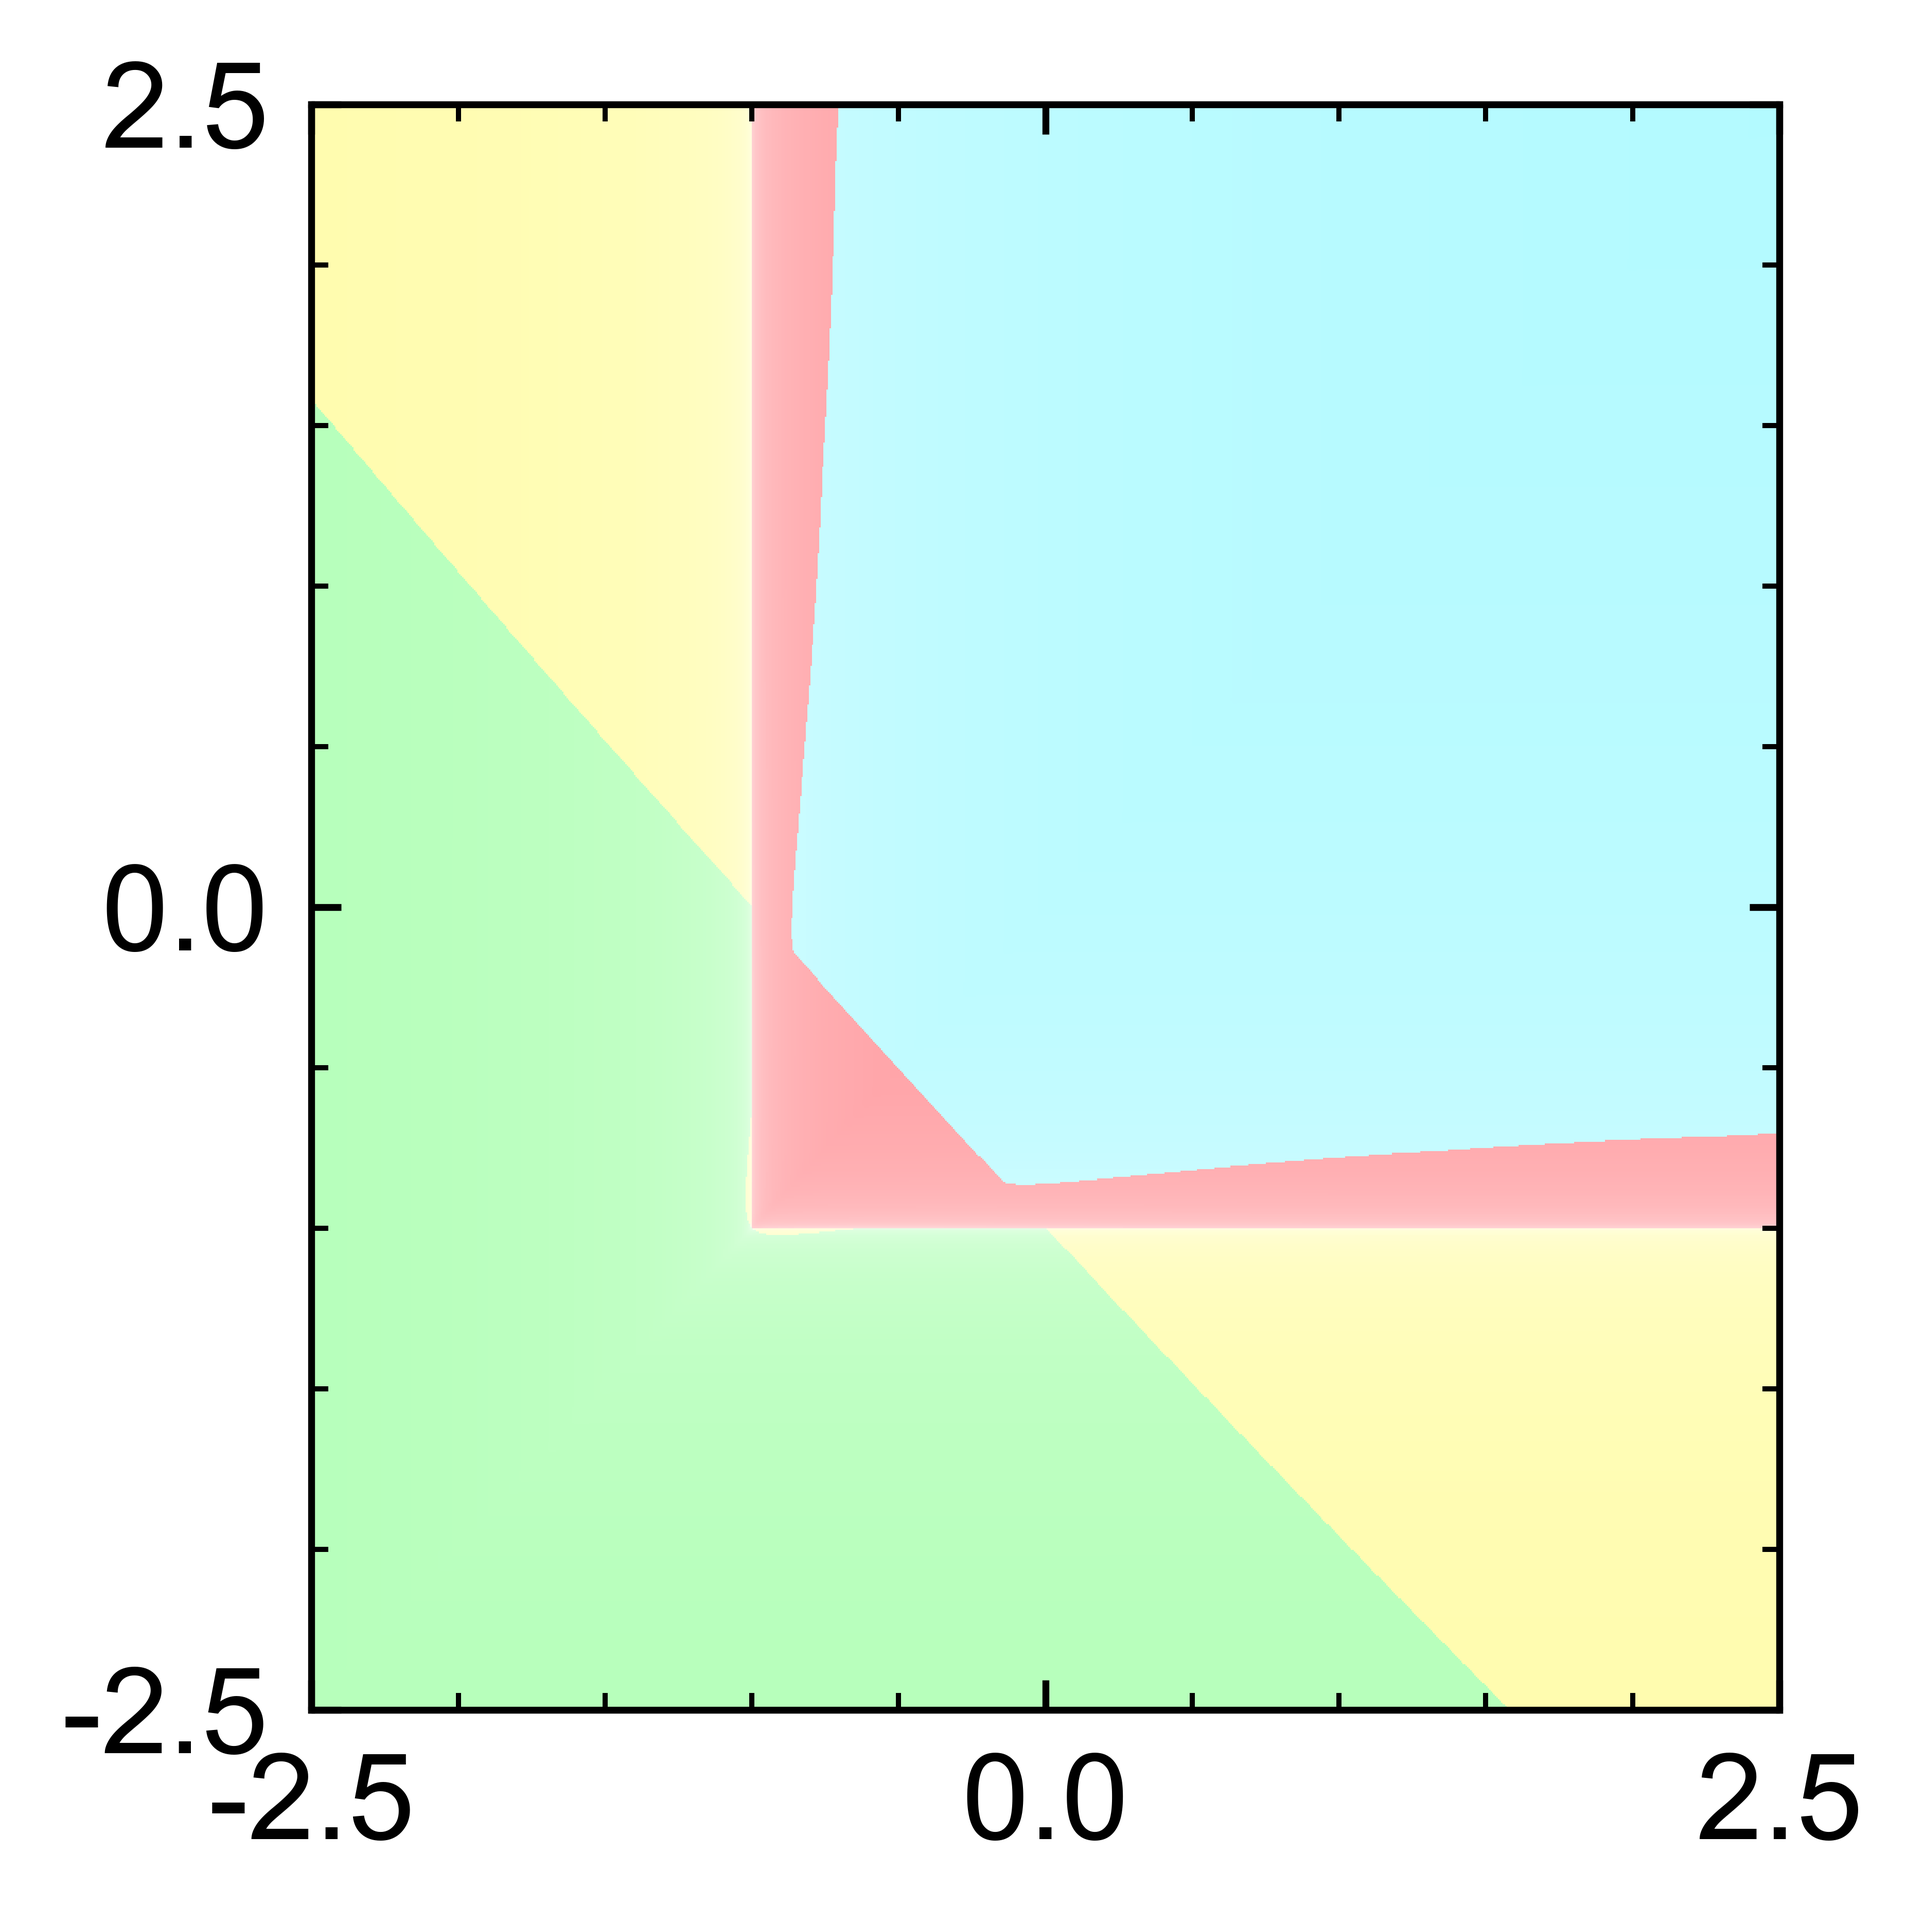
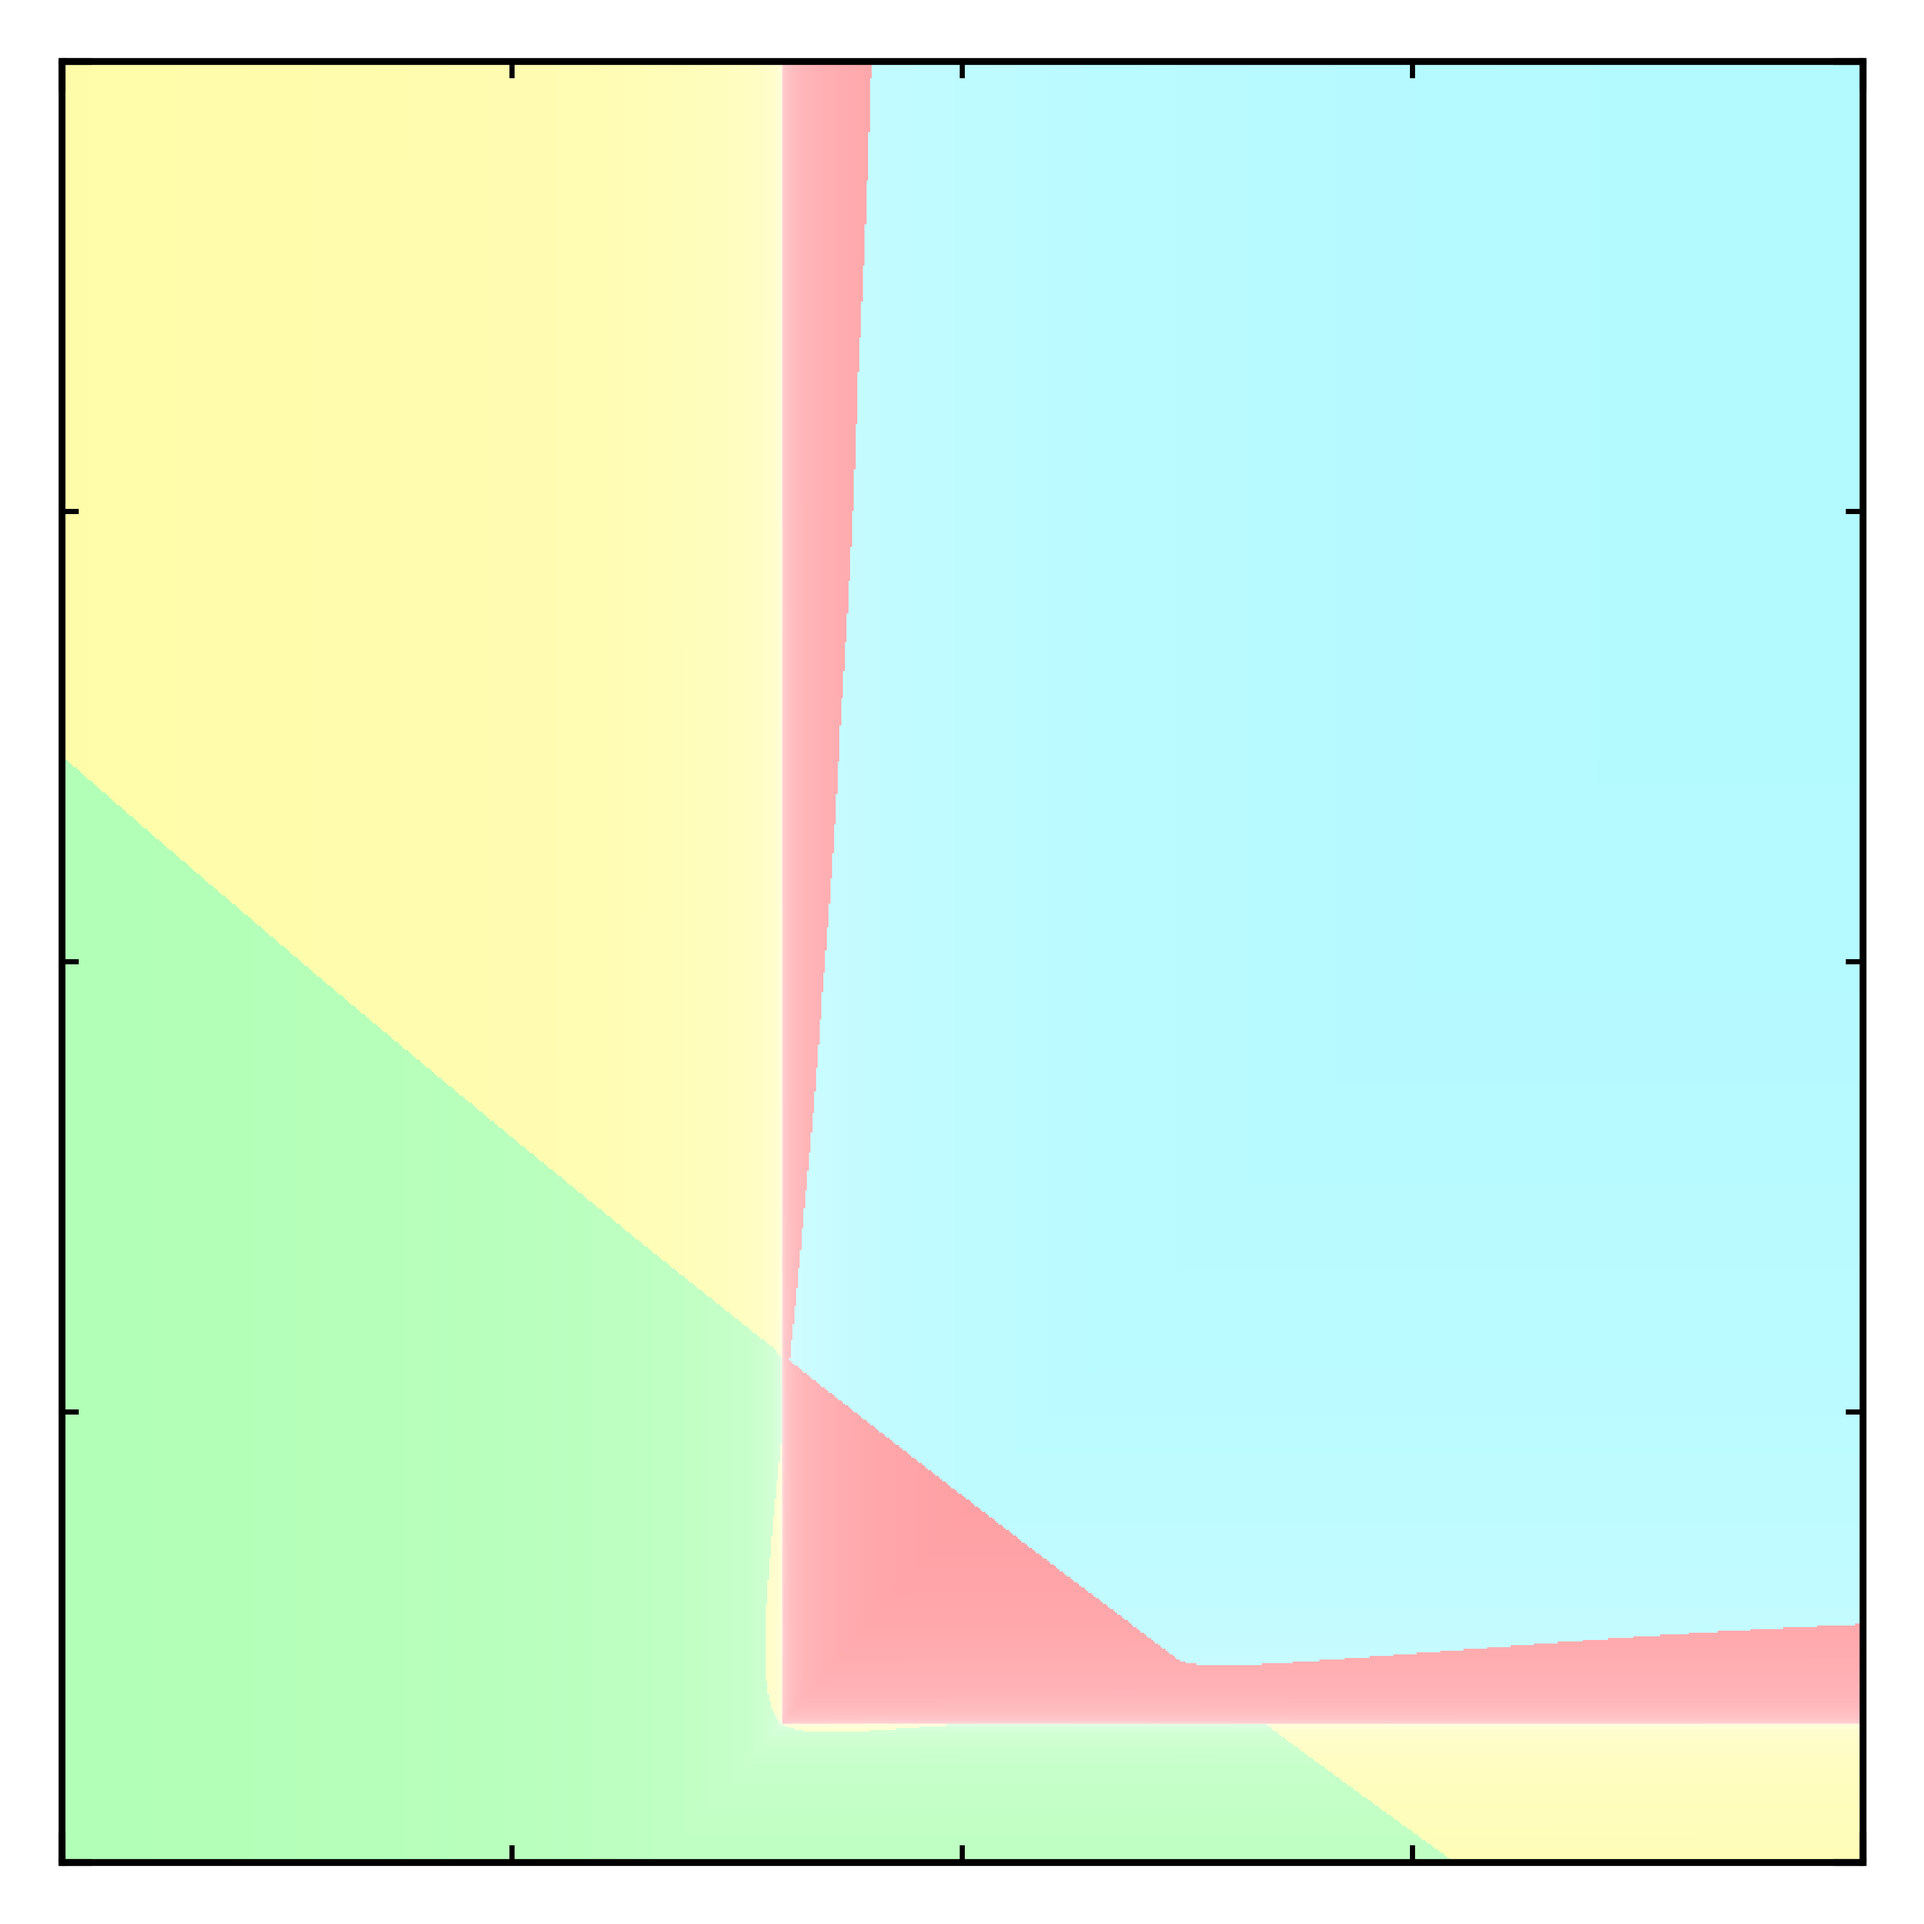
singular plots

diff --git a/py_analysis/tester/heatmaps-vectorized-v2-singular-multicolor.py b/py_analysis/tester/heatmaps-vectorized-v2-singular-multicolor.py
@@ -68,8 +68,8 @@ if __name__=="__main__":
     plt.rcParams['font.family'] = 'Arial'
     font = {'color':  'black','weight': 'normal', 'size': 14}
 
-    E_ms_a_list = [0]
-    E_ms_n_list = [-0.5]
+    E_ms_a_list = [-1]
+    E_ms_n_list = [0]
 
     fig = plt.figure( figsize=(3,3), constrained_layout=True)
     ax  = plt.axes()
@@ -77,17 +77,22 @@ if __name__=="__main__":
 
     # define density of time points and range of plots
     linrange = 1000
-    plot_lim = 5/2
+    # plot_lim = 3
+    lxlim = -5
+    uxlim = 2.5
+
+    lylim = -2.5
+    uylim = 4
 
     # define energies to plot things over 
-    E_mm_a, E_mm_n = np.meshgrid (np.linspace(-plot_lim, plot_lim, linrange), np.linspace (-plot_lim, plot_lim, linrange))
+    E_mm_a, E_mm_n = np.meshgrid (np.linspace(lylim, uylim, linrange), np.linspace (lxlim, uxlim, linrange))
 
     # get temperatures
     T  = np.logspace (-2, 2, 50)
     T_broadcast = np.broadcast_to (T, (E_mm_a.shape[0], E_mm_a.shape[1], len(T)))
 
     # get the other data structures
-    g = 0.5
+    g = 0.6
     G = g * np.ones (E_mm_a.shape)
 
     pv = 1.0
@@ -175,14 +180,14 @@ if __name__=="__main__":
             del hold
 
 
-            ax.set_xlim (-plot_lim, plot_lim)
-            ax.set_ylim (-plot_lim, plot_lim)
-            ax.set_yticks([-plot_lim,0,plot_lim])
-            ax.set_xticks([-plot_lim,0,plot_lim])
+            ax.set_xlim (lxlim, uxlim)
+            ax.set_ylim (lylim, uylim)
+            ax.set_yticks([lylim,uylim])
+            ax.set_xticks([lxlim,uxlim])
             # ax.set_xlabel ("$\\mathbf{ \\epsilon _{mm} } ^{\\perp}$ ", fontsize=6, weight='bold', labelpad=2)
             # ax.set_ylabel ("$\\mathbf{ \\epsilon _{mm} ^{\\parallel} }$", fontsize=6, labelpad=2)
-            ax.set_xticklabels (ax.get_xticks(), fontdict=font)
-            ax.set_yticklabels (ax.get_yticks(), fontdict=font)
+            ax.set_xticklabels ([]) # (ax.get_xticks(), fontdict=font)
+            ax.set_yticklabels ([]) # (ax.get_yticks(), fontdict=font)
             ax.minorticks_on()
             print ("plotted!", flush=True)
 
